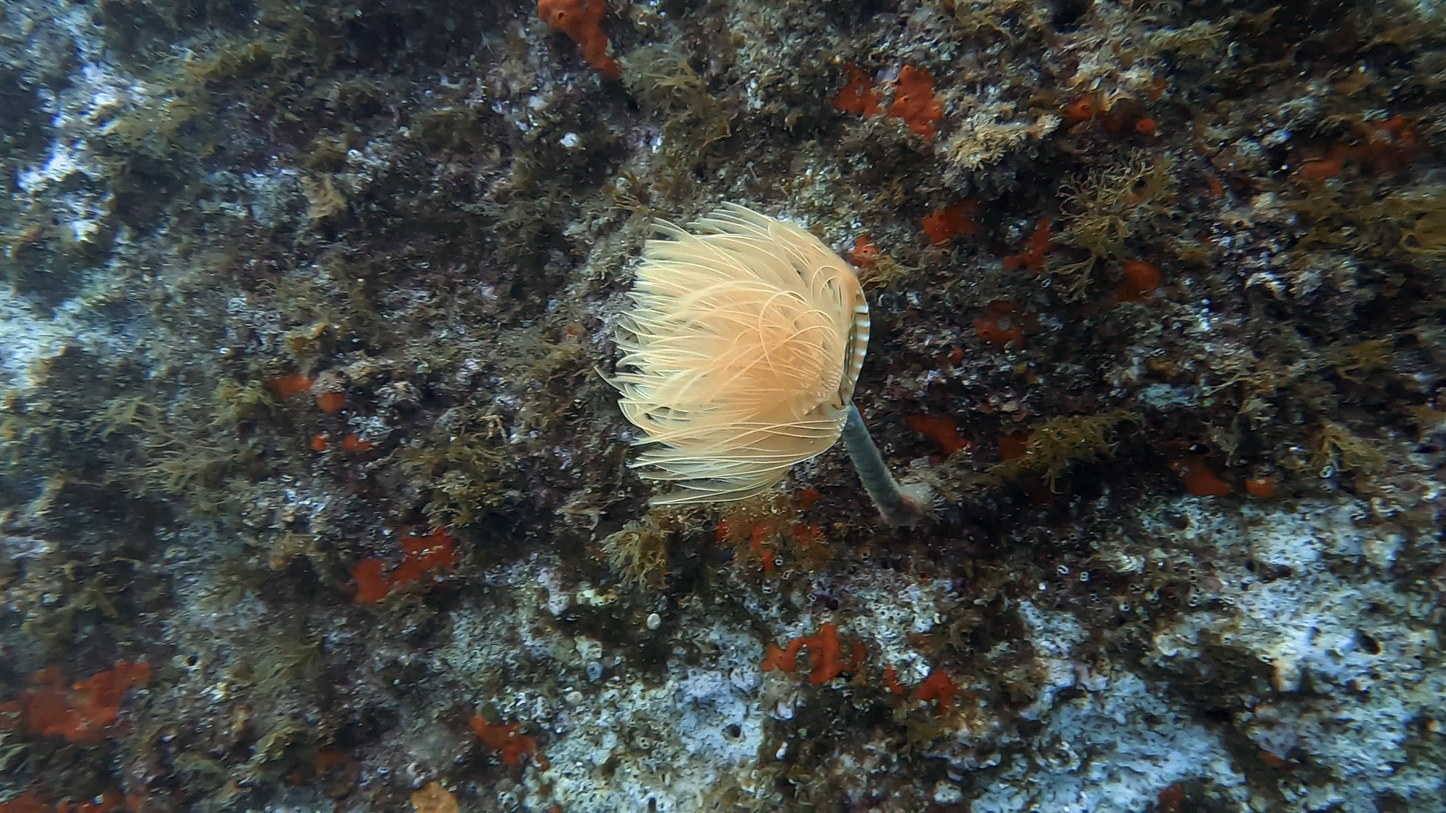
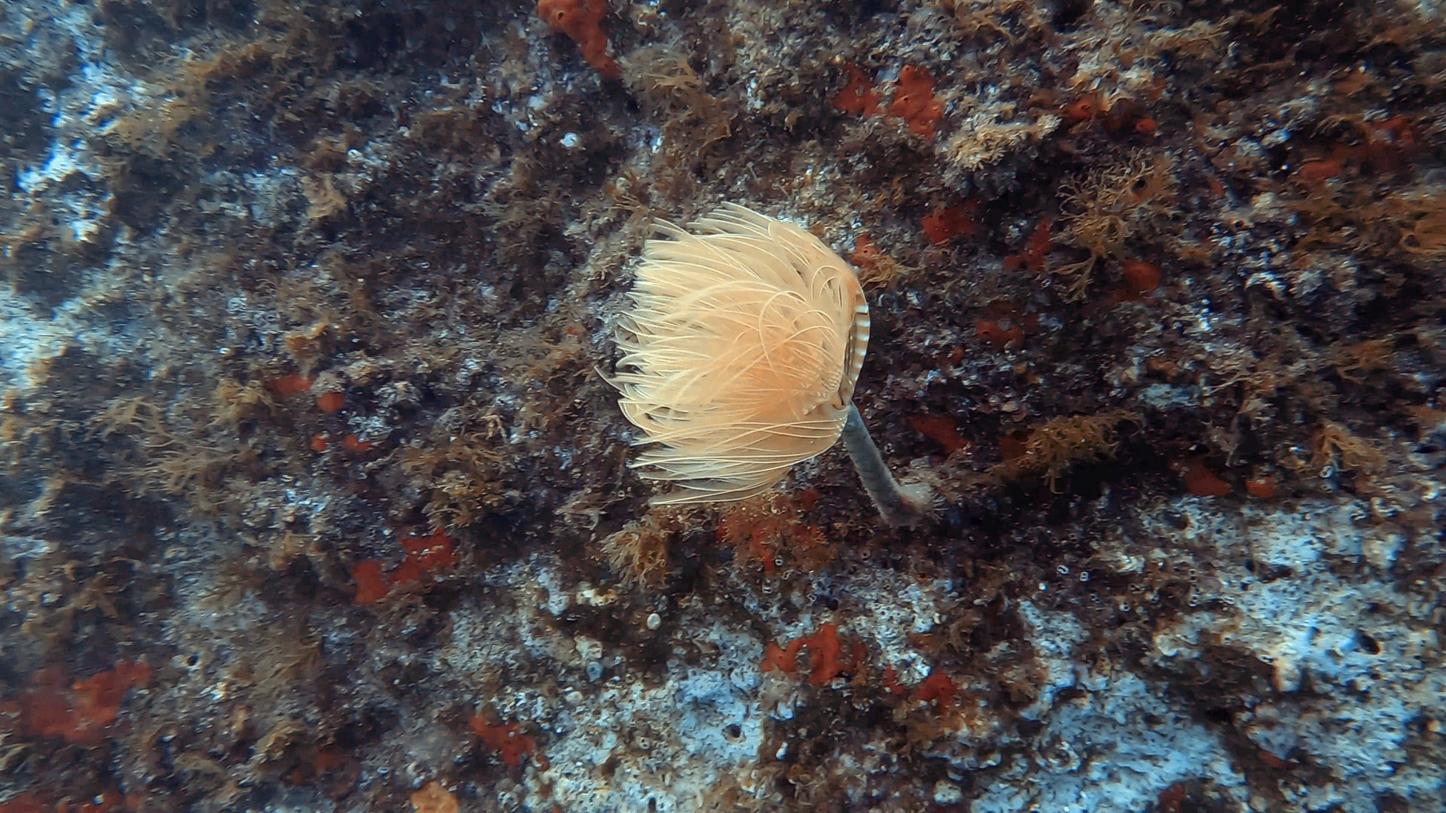
change

diff --git a/script.js b/script.js
@@ -1,0 +1,22 @@
+const slider = document.getElementById('slider');
+const beforeImg = document.getElementById('before');
+const afterImg = document.getElementById('after');
+const container = document.querySelector('.container');
+
+// Create the split bar element and add it to the container
+const splitBar = document.createElement('div');
+splitBar.classList.add('split-bar');
+container.appendChild(splitBar);
+
+function updateSplitBar() {
+    const value = slider.value;
+    const percentage = (value / 100) * container.offsetWidth;
+    splitBar.style.left = `${percentage - splitBar.offsetWidth / 2}px`; // Center the split bar on the slider value
+    afterImg.style.clipPath = `inset(0 ${100 - value}% 0 0)`;
+}
+
+// Initialize the split bar position
+updateSplitBar();
+
+// Update the split bar position when the slider value changes
+slider.addEventListener('input', updateSplitBar);

diff --git a/html.html b/html.html
@@ -1,0 +1,17 @@
+<!DOCTYPE html>
+<html lang="en">
+<head>
+    <meta charset="UTF-8">
+    <meta name="viewport" content="width=device-width, initial-scale=1.0">
+    <title>Image Slider</title>
+    <link rel="stylesheet" href="styles.css">
+</head>
+<body>
+    <div class="container">
+        <img id="before" src="https://raw.githubusercontent.com/Tian-Yu-CAO/DNnet-A-Lightweight-Network-For-Real-Time-4K-Underwater-Image-Enhancement/main/Show4K/Enhanced.jpg" alt="Before Image" width="3840" height="2160">
+        <input type="range" min="0" max="100" value="50" class="slider" id="slider">
+        <img id="after" src="https://raw.githubusercontent.com/Tian-Yu-CAO/DNnet-A-Lightweight-Network-For-Real-Time-4K-Underwater-Image-Enhancement/main/Show4K/Original.jpg" alt="After Image" width="3840" height="2160">
+    </div>
+    <script src="script.js"></script>
+</body>
+</html>

diff --git a/styles.css b/styles.css
@@ -1,0 +1,42 @@
+body {
+    display: flex;
+    justify-content: center;
+    align-items: center;
+    height: 100vh;
+    margin: 0;
+}
+
+.container {
+    position: relative;
+    width: 80%; /* Adjust this to fit your needs */
+    max-width: 3840px; /* Ensure it doesn't exceed the image width */
+    height: auto;
+}
+
+#before, #after {
+    width: 100%;
+    height: auto;
+    display: block;
+}
+
+#after {
+    position: absolute;
+    top: 0;
+    left: 0;
+    opacity: 0.5;
+}
+
+.slider {
+    width: 100%;
+    margin: 20px 0;
+}
+
+/* Adding a split bar */
+.split-bar {
+    position: absolute;
+    top: 0;
+    bottom: 0;
+    width: 10px; /* Adjust the width of the split bar */
+    background: rgba(255, 255, 255, 0.7); /* Semi-transparent white */
+    pointer-events: none; /* Make sure it doesn't interfere with the slider */
+}
